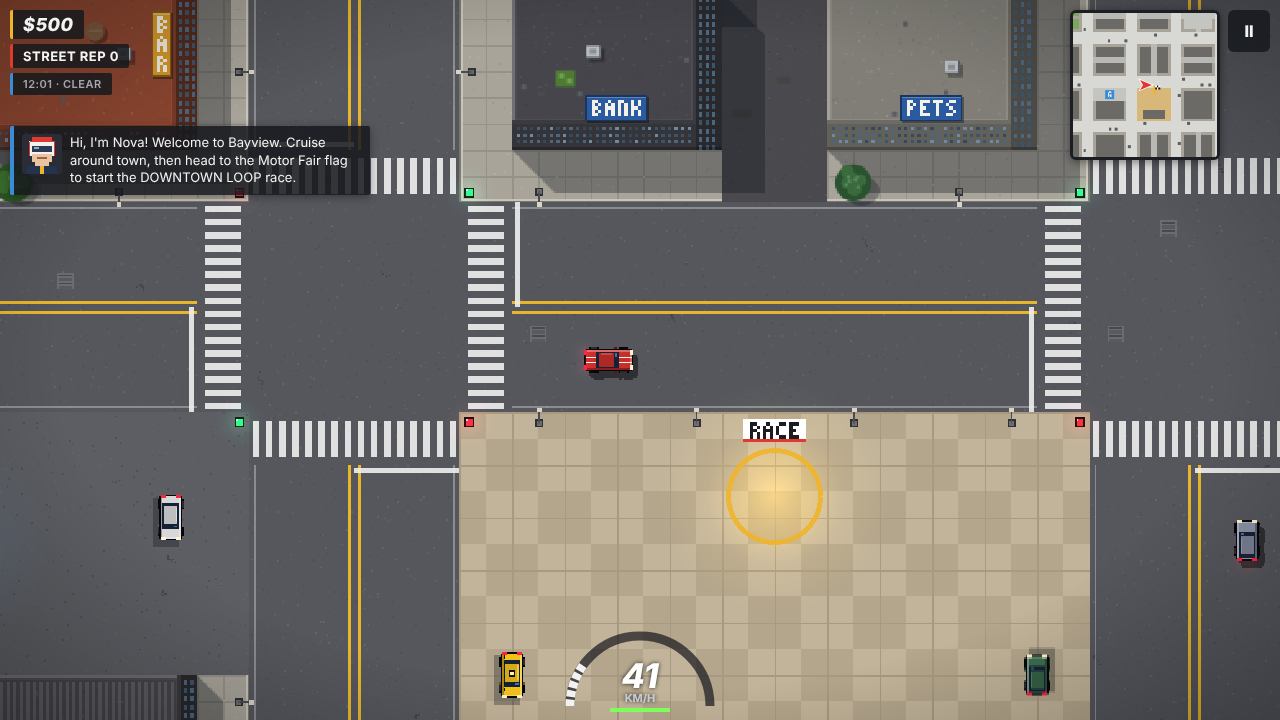
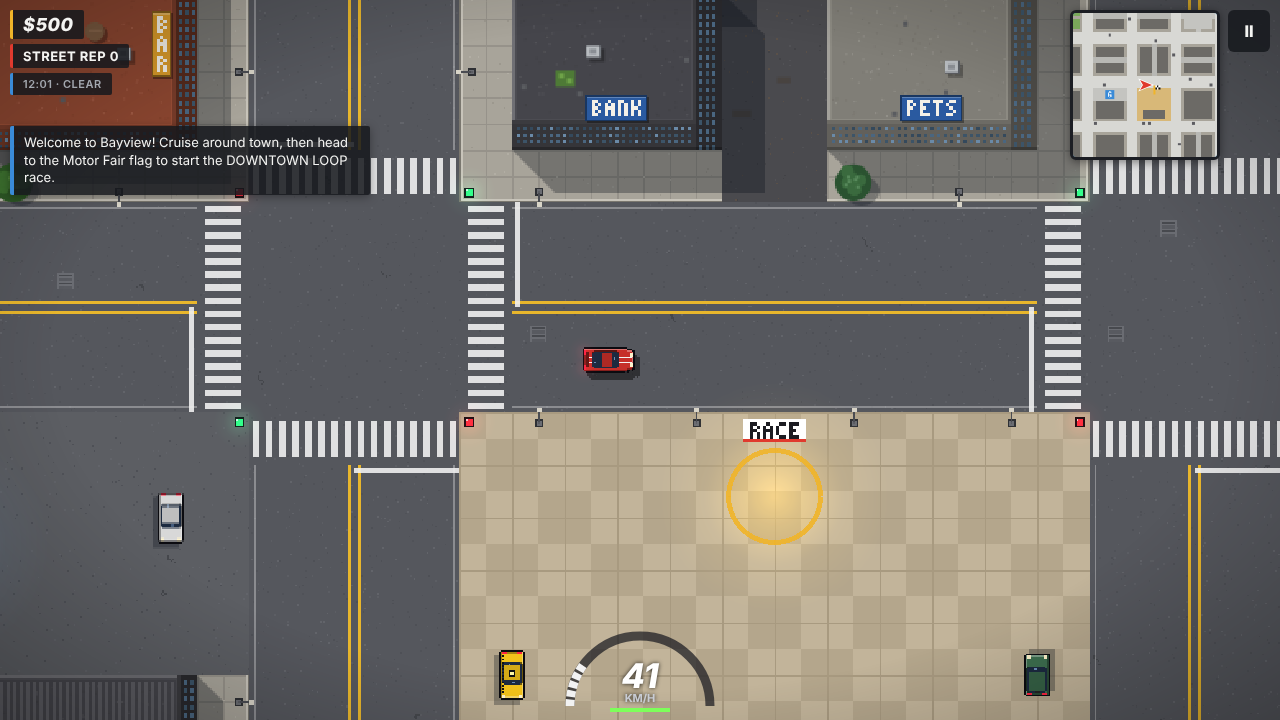
Remove Nova and maths from the game
The educational part is now a separate project. Results screen shows
standings and prize with a single COLLECT button; Nova's dialogue box
becomes a plain hint message; pause menu, saves and README no longer
reference maths. Old saves have their maths progress stripped on load.

src/edu/Nova.ts is no longer imported anywhere and can be deleted.

Claude-Session: https://claude.ai/code/session_01VsGFSgPn9bzHfpGfi3dhhv

diff --git a/src/ui/Menus.ts b/src/ui/Menus.ts
@@ -1,5 +1,3 @@
-import { Question, drawNova } from '../edu/Nova';
-
 const overlay = () => document.getElementById('overlay')!;
 const panel = () => document.getElementById('panel')!;
 
@@ -22,7 +20,6 @@ export interface PauseOptions {
   fps: boolean;
   zoom: number;
   ctlScale: number;
-  mathsLevel: number;
   onResume(): void;
   onTime(hour: number): void;
   onZoom(z: number): void;
@@ -48,8 +45,7 @@ export function showPause(o: PauseOptions) {
     <div class="row"><span>SOUND</span><button data-a="mute">${o.muted ? 'OFF' : 'ON'}</button></div>
     <div class="row"><span>SHOW FPS</span><button data-a="fps">${o.fps ? 'ON' : 'OFF'}</button></div>
     <div class="row"><button data-a="resetcar">RESET CAR</button>${o.racing ? '<button data-a="quit" class="danger">QUIT RACE</button>' : ''}</div>
-    <p class="help">Keyboard: <b>W/↑</b> gas · <b>S/↓</b> brake/reverse · <b>A D/← →</b> steer · <b>SPACE</b> drift · <b>E</b> interact · <b>+/-</b> zoom · <b>ESC</b> pause</p>
-    <p class="help">Nova maths level: ${o.mathsLevel}</p>`);
+    <p class="help">Keyboard: <b>W/↑</b> gas · <b>S/↓</b> brake/reverse · <b>A D/← →</b> steer · <b>SPACE</b> drift · <b>E</b> interact · <b>+/-</b> zoom · <b>ESC</b> pause</p>`);
   p.querySelector('[data-a=resume]')!.addEventListener('click', () => o.onResume());
   p.querySelectorAll<HTMLButtonElement>('[data-h]').forEach((b) => b.addEventListener('click', () => o.onTime(Number(b.dataset.h))));
   (p.querySelector('[data-a=zoom]') as HTMLInputElement).addEventListener('input', (e) => o.onZoom(Number((e.target as HTMLInputElement).value)));
@@ -82,7 +78,7 @@ export interface ResultRow {
   color: string;
 }
 
-export function showResults(rows: ResultRow[], reward: number, rep: number, bestLap: string, question: Question, onDone: (bonusCorrect: boolean | null) => void) {
+export function showResults(rows: ResultRow[], reward: number, rep: number, bestLap: string, onDone: () => void) {
   const table = rows
     .map((r) => `<tr class="${r.you ? 'you' : ''}"><td>${r.place}</td><td><i style="background:${r.color}"></i>${r.name}</td><td>${r.car}</td><td>${r.time}</td></tr>`)
     .join('');
@@ -90,37 +86,6 @@ export function showResults(rows: ResultRow[], reward: number, rep: number, best
     <h2>${rows.find((r) => r.you)!.place === 1 ? 'VICTORY!' : 'RACE COMPLETE'}</h2>
     <table class="results"><tr><th>#</th><th>DRIVER</th><th>CAR</th><th>TIME</th></tr>${table}</table>
     <p class="reward">PRIZE <b>$${reward}</b> · STREET REP <b>+${rep}</b> · BEST LAP <b>${bestLap}</b></p>
-    <div class="novaq">
-      <canvas width="24" height="24" class="face"></canvas>
-      <div>
-        <p><b>NOVA:</b> Bonus round! Solve this for <b>+50%</b> prize money.</p>
-        <p class="q">${question.text}</p>
-        <div class="choices">${question.choices.map((c) => `<button data-c="${c}">${c}</button>`).join('')}</div>
-        <p class="explain hidden"></p>
-      </div>
-    </div>
-    <div class="row"><button data-a="skip">SKIP BONUS</button><button class="big hidden" data-a="done">COLLECT</button></div>`);
-  drawNova(p.querySelector('.face') as HTMLCanvasElement);
-  let answered: boolean | null = null;
-  const done = p.querySelector('[data-a=done]') as HTMLButtonElement;
-  const skip = p.querySelector('[data-a=skip]') as HTMLButtonElement;
-  p.querySelectorAll<HTMLButtonElement>('[data-c]').forEach((b) =>
-    b.addEventListener('click', () => {
-      if (answered !== null) return;
-      const v = Number(b.dataset.c);
-      answered = v === question.answer;
-      p.querySelectorAll<HTMLButtonElement>('[data-c]').forEach((x) => {
-        x.disabled = true;
-        if (Number(x.dataset.c) === question.answer) x.classList.add('right');
-      });
-      if (!answered) b.classList.add('wrong');
-      const ex = p.querySelector('.explain')!;
-      ex.textContent = answered ? `Correct! ${question.explain}. Bonus unlocked!` : `Not quite: ${question.explain}. You still keep your prize.`;
-      ex.classList.remove('hidden');
-      skip.classList.add('hidden');
-      done.classList.remove('hidden');
-    }),
-  );
-  skip.addEventListener('click', () => onDone(null));
-  done.addEventListener('click', () => onDone(answered));
+    <button class="big" data-a="done">COLLECT</button>`);
+  p.querySelector('[data-a=done]')!.addEventListener('click', () => onDone());
 }

diff --git a/src/scenes/GameScene.ts b/src/scenes/GameScene.ts
@@ -2,7 +2,6 @@ import Phaser from 'phaser';
 import { DEPTH, DIRS, GRID, TILE, WORLD_H, WORLD_W, nodePos } from '../config';
 import { clamp, damp } from '../core/math';
 import { TrafficSystem } from '../ai/Traffic';
-import { adapt, makeQuestion } from '../edu/Nova';
 import { registerTextures, SpriteBank, hexStr } from '../gfx/SpriteFactory';
 import { collideBodies, collideKinematic, collideWorld } from '../physics/Collision';
 import { RaceManager } from '../race/RaceManager';
@@ -115,10 +114,10 @@ export class GameScene extends Phaser.Scene {
 
     document.getElementById('loading')!.classList.add('hidden');
     if (!this.save.seenIntro) {
-      this.hud.nova("Hi, I'm Nova! Welcome to Bayview. Cruise around town, then head to the Motor Fair flag to start the DOWNTOWN LOOP race.", 8000);
+      this.hud.hint('Welcome to Bayview! Cruise around town, then head to the Motor Fair flag to start the DOWNTOWN LOOP race.', 8000);
       this.save.seenIntro = true;
       writeSave(this.save);
-    } else this.hud.nova('Welcome back to Bayview! The DOWNTOWN LOOP race is waiting at the Motor Fair.', 4500);
+    } else this.hud.hint('Welcome back to Bayview! The DOWNTOWN LOOP race is waiting at the Motor Fair.', 4500);
   }
 
   private addMarker(x: number, y: number, color: number, label: string) {
@@ -159,7 +158,6 @@ export class GameScene extends Phaser.Scene {
       fps: this.showFps,
       zoom: this.userZoom,
       ctlScale: this.touch.scale,
-      mathsLevel: this.save.maths.level,
       onResume: () => this.togglePause(),
       onTime: (h) => {
         this.dayNight.hour = h;
@@ -325,7 +323,7 @@ export class GameScene extends Phaser.Scene {
     }
     if (ev.lap && !ev.finished) {
       this.hud.toast(`LAP ${ev.lap + 1}/${this.race.def.laps} · ${fmtTime(this.race.lastLapTimes[this.race.lastLapTimes.length - 1])}`);
-      if (ev.lap === this.race.def.laps - 1) this.hud.nova('Final lap! Watch for shortcuts through the parking lots.', 3000);
+      if (ev.lap === this.race.def.laps - 1) this.hud.hint('Final lap! Watch for shortcuts through the parking lots.', 3000);
     }
     if (ev.finished) {
       this.hud.countdown('FINISH');
@@ -351,11 +349,8 @@ export class GameScene extends Phaser.Scene {
       you: e.isPlayer,
       color: hexStr(e.color),
     }));
-    const q = makeQuestion(this.save.maths.level, { reward });
-    showResults(rows, reward, rep, fmtTime(bestLap), q, (bonus) => {
-      if (bonus !== null) adapt(this.save.maths, bonus);
-      const total = Math.round(reward * (bonus ? 1.5 : 1));
-      this.save.money += total;
+    showResults(rows, reward, rep, fmtTime(bestLap), () => {
+      this.save.money += reward;
       this.save.rep.street += rep;
       if (place === 1) this.save.racesWon++;
       const tt = this.race.player!.finishTime;
@@ -365,8 +360,8 @@ export class GameScene extends Phaser.Scene {
       closeOverlay();
       this.race.end();
       this.resultsShown = false;
-      this.hud.toast(`+$${total}${bonus ? ' (NOVA BONUS!)' : ''}`);
-      this.hud.nova(place === 1 ? 'Amazing driving! Race again any time at the Motor Fair flag.' : 'Good run! Try the parking-lot shortcuts next time.', 4500);
+      this.hud.toast(`+$${reward}`);
+      this.hud.hint(place === 1 ? 'Amazing driving! Race again any time at the Motor Fair flag.' : 'Good run! Try the parking-lot shortcuts next time.', 4500);
     });
   }
 
@@ -399,7 +394,7 @@ export class GameScene extends Phaser.Scene {
       this.camX = p.x;
       this.camY = p.y;
       this.lastCountdown = -1;
-      this.hud.nova('Two laps of downtown Bayview. Follow the yellow checkpoints. Beat the rivals!', 3500);
+      this.hud.hint('Two laps of downtown Bayview. Follow the yellow checkpoints. Beat the rivals!', 3500);
     } else if (ctx === 'garage') {
       if (p.damage < 1) this.hud.toast('YOUR CAR IS ALREADY PERFECT');
       else {

diff --git a/src/style.css b/src/style.css
@@ -43,8 +43,7 @@ body { touch-action: none; user-select: none; -webkit-user-select: none; -webkit
 #countdown.pop { animation: pop 0.6s ease-out; }
 @keyframes pop { from { transform: translate(-50%, -50%) scale(1.8); opacity: 0.2; } to { transform: translate(-50%, -50%) scale(1); opacity: 1; } }
 #toast { position: absolute; top: 24%; left: 50%; transform: translateX(-50%); background: var(--panel); border-left: 4px solid var(--amber); padding: 8px 16px; border-radius: 2px; font-weight: 800; letter-spacing: 0.5px; white-space: nowrap; max-width: 92vw; overflow: hidden; text-overflow: ellipsis; }
-#nova { position: absolute; left: calc(10px + var(--safe-l)); top: calc(126px + var(--safe-t)); max-width: min(360px, 60vw); display: flex; gap: 8px; align-items: flex-start; background: var(--panel); border-left: 4px solid var(--blue); border-radius: 2px; padding: 8px; font-size: 13px; line-height: 1.35; box-shadow: 0 2px 10px rgba(0, 0, 0, 0.35); }
-#nova canvas { width: 40px; height: 40px; image-rendering: pixelated; flex: none; background: #2a2d35; border-radius: 3px; }
+#hint { position: absolute; left: calc(10px + var(--safe-l)); top: calc(126px + var(--safe-t)); max-width: min(360px, 60vw); background: var(--panel); border-left: 4px solid var(--blue); border-radius: 2px; padding: 8px 10px; font-size: 13px; line-height: 1.35; box-shadow: 0 2px 10px rgba(0, 0, 0, 0.35); }
 #speedo { position: absolute; bottom: calc(6px + var(--safe-b)); left: 50%; transform: translateX(-50%); width: 170px; height: 100px; }
 body.touch #speedo { bottom: calc(4px + var(--safe-b)); }
 
@@ -84,15 +83,6 @@ body.touch #speedo { bottom: calc(4px + var(--safe-b)); }
 .results i { display: inline-block; width: 8px; height: 8px; margin-right: 6px; border-radius: 2px; }
 .reward { text-align: center; }
 .reward b { color: var(--amber); }
-.novaq { display: flex; gap: 10px; background: rgba(58, 139, 216, 0.1); border-left: 4px solid var(--blue); border-radius: 2px; padding: 10px; }
-.novaq .face { width: 48px; height: 48px; image-rendering: pixelated; flex: none; background: #2a2d35; border-radius: 3px; }
-.novaq p { margin: 0 0 8px; }
-.novaq .q { font-size: 16px; font-weight: 800; }
-.choices { display: flex; gap: 8px; flex-wrap: wrap; }
-.choices button { min-width: 72px; font-size: 18px; }
-.choices button.right { border-color: #50c86e; background: #1e4a2a; }
-.choices button.wrong { border-color: var(--accent); background: #4a1e1a; }
-.explain { color: #8ec4f4; }
 
 #loading { position: fixed; inset: 0; z-index: 50; display: flex; flex-direction: column; align-items: center; justify-content: center; background: #16181d; gap: 10px; }
 #loading .logo { font-size: 44px; font-weight: 900; font-style: italic; letter-spacing: 2px; border-bottom: 5px solid var(--accent); padding-bottom: 4px; }
@@ -104,11 +94,10 @@ body.touch #speedo { bottom: calc(4px + var(--safe-b)); }
   .chip.money { font-size: 14px; }
   #raceInfo { font-size: 15px; gap: 8px; padding: 4px 8px; top: calc(6px + var(--safe-t)); }
   #countdown { font-size: 68px; }
-  #nova { top: calc(100px + var(--safe-t)); font-size: 11px; }
+  #hint { top: calc(100px + var(--safe-t)); font-size: 11px; }
   #speedo { width: 136px; height: 80px; }
 }
 @media (max-height: 500px) {
-  #nova { top: calc(44px + var(--safe-t)); left: 50%; transform: translateX(-50%); max-width: min(44vw, 380px); padding: 5px 7px; font-size: 11px; }
-  #nova canvas { width: 28px; height: 28px; }
+  #hint { top: calc(44px + var(--safe-t)); left: 50%; transform: translateX(-50%); max-width: min(44vw, 380px); padding: 5px 7px; font-size: 11px; }
   #toast { top: auto; bottom: calc(96px + var(--safe-b)); font-size: 12px; }
 }

diff --git a/src/ui/Hud.ts b/src/ui/Hud.ts
@@ -1,5 +1,4 @@
 import { MAP_H, MAP_W, TILE, toKmh } from '../config';
-import { drawNova } from '../edu/Nova';
 import type { CityMap } from '../world/CityMap';
 import { Tile } from '../world/Tiles';
 
@@ -49,7 +48,7 @@ export const fmtTime = (t: number) => {
   return `${m}:${s < 10 ? '0' : ''}${s.toFixed(1)}`;
 };
 
-/** DOM HUD: money/rep chips, mini-map, speedometer, race panel, toasts and Nova messages. */
+/** DOM HUD: money/rep chips, mini-map, speedometer, race panel, toasts and hint messages. */
 export class Hud {
   private mini = $('minimap') as HTMLCanvasElement;
   private mctx: CanvasRenderingContext2D;
@@ -57,7 +56,7 @@ export class Hud {
   private speedo = $('speedo') as HTMLCanvasElement;
   private sctx: CanvasRenderingContext2D;
   private toastTimer = 0;
-  private novaTimer = 0;
+  private hintTimer = 0;
   private last = 0;
 
   constructor(map: CityMap) {
@@ -77,7 +76,6 @@ export class Hud {
         g.fillStyle = MINI_COL[map.get(x, y)] ?? '#000';
         g.fillRect(x, y, 1, 1);
       }
-    drawNova($('novaFace') as HTMLCanvasElement);
   }
 
   toast(text: string, ms = 2200) {
@@ -87,10 +85,10 @@ export class Hud {
     this.toastTimer = ms / 1000;
   }
 
-  nova(text: string, ms = 5000) {
-    $('novaText').textContent = text;
-    $('nova').classList.remove('hidden');
-    this.novaTimer = ms / 1000;
+  hint(text: string, ms = 5000) {
+    $('hint').textContent = text;
+    $('hint').classList.remove('hidden');
+    this.hintTimer = ms / 1000;
   }
 
   countdown(text: string | null) {
@@ -108,7 +106,7 @@ export class Hud {
 
   update(dt: number, f: HudFrame) {
     if (this.toastTimer > 0 && (this.toastTimer -= dt) <= 0) $('toast').classList.add('hidden');
-    if (this.novaTimer > 0 && (this.novaTimer -= dt) <= 0) $('nova').classList.add('hidden');
+    if (this.hintTimer > 0 && (this.hintTimer -= dt) <= 0) $('hint').classList.add('hidden');
     this.last += dt;
     if (this.last < 1 / 20) return; // 20 Hz HUD refresh is plenty
     this.last = 0;

diff --git a/src/systems/Save.ts b/src/systems/Save.ts
@@ -10,7 +10,6 @@ export interface SaveData {
   version: 1;
   money: number;
   rep: Reputation;
-  maths: { level: number; streak: number; correct: number; answered: number };
   racesWon: number;
   bestRace: number | null;
   bestLap: number | null;
@@ -21,7 +20,6 @@ export const defaultSave = (): SaveData => ({
   version: 1,
   money: 500,
   rep: { street: 0, rally: 0, circuit: 0, offroad: 0, drag: 0 },
-  maths: { level: 1, streak: 0, correct: 0, answered: 0 },
   racesWon: 0,
   bestRace: null,
   bestLap: null,
@@ -51,7 +49,9 @@ export async function loadSave(): Promise<SaveData> {
       req.onerror = () => reject(req.error);
     });
     const def = defaultSave();
-    return data ? { ...def, ...data, rep: { ...def.rep, ...data.rep }, maths: { ...def.maths, ...data.maths } } : def;
+    if (!data) return def;
+    const { maths: _dropped, ...rest } = data as SaveData & { maths?: unknown }; // older saves had maths progress
+    return { ...def, ...rest, rep: { ...def.rep, ...rest.rep } };
   } catch {
     return defaultSave();
   }

diff --git a/index.html b/index.html
@@ -33,7 +33,7 @@
       <div id="cpArrow" class="hidden"></div>
       <div id="countdown" class="hidden"></div>
       <div id="toast" class="hidden"></div>
-      <div id="nova" class="hidden"><canvas id="novaFace" width="24" height="24"></canvas><div id="novaText"></div></div>
+      <div id="hint" class="hidden"></div>
       <canvas id="speedo"></canvas>
     </div>
 

diff --git a/README.md b/README.md
@@ -1,11 +1,12 @@
-# NIGHT RACERS — Bayview Maths Missions
+# NIGHT RACERS — Bayview
 
-Open-world, top-down arcade racing with an educational twist, built for the browser (mobile-first).
+Open-world, top-down arcade racing, built for the browser (mobile-first).
 This is **Milestone 1: the playable Bayview downtown prototype** from the [design spec](docs/SPEC.md).
 
-> **Style change:** the original spec used a neon theme (Neon Bay / Neon City). The game now uses a natural look with a
-> full **day/night cycle**. Place names changed to match: Neon Bay → **Bayview**, Neon City → **Downtown**,
-> NEON LOOP → **DOWNTOWN LOOP**, Neon Bay Festival → **Bayview Motor Fair**. `docs/SPEC.md` is kept as originally written.
+> **Changes from the spec** (`docs/SPEC.md` is kept as originally written):
+> - **No neon theme.** The game uses a natural look with a full **day/night cycle**. Place names changed to match:
+>   Neon Bay → **Bayview**, Neon City → **Downtown**, NEON LOOP → **DOWNTOWN LOOP**, Neon Bay Festival → **Bayview Motor Fair**.
+> - **No Nova or maths.** The educational part (spec section 9) is now a separate project, and this game is racing only.
 
 ## Run it
 
@@ -66,15 +67,13 @@ positions (MOVE CONTROLS), or reset the layout. The layout is remembered per dev
     a chequered start/finish line, lap counting, live positions and a HUD arrow. At the end a results screen shows money
     and street-reputation rewards. Rivals have different personalities (skill, aggression, racing line), corner braking,
     stuck recovery, an off-screen rescue if they get stuck, and mild rubber-banding.
-11. **Nova and maths.** Nova greets you and gives tips without blocking play. After each race she offers an optional
-    bonus question (+50% prize). Its difficulty adapts across 8 levels, from addition up to speed × time, and the
-    questions use racing themes. Free roaming is never interrupted.
+11. **Hints.** Short tips (where the race starts, final lap, shortcuts) appear in a corner without blocking play.
 12. **Garage.** Drive to the GARAGE ring to repair damage (costs money).
 13. **Dynamic weather.** The weather moves between clear, drizzle, rain and storm, with rain streaks and thunder flashes.
     Rain dims the daylight, and roads get wet (darker, with puddles) and dry gradually.
 14. **Audio.** All sound is procedural Web Audio: an engine with gear changes, tyre squeal, crashes, rain, thunder and
     countdown beeps.
-15. **Saves.** Money, reputation (street, rally, circuit, off-road and drag), maths level and best times are
+15. **Saves.** Money, reputation (street, rally, circuit, off-road and drag) and best times are
     saved in IndexedDB.
 
 ### How the lighting works
@@ -110,7 +109,6 @@ src/
   systems/DayNight.ts       time of day: world tint + night factor for lights
   systems/{Weather,Audio,Input,Save}.ts
   ui/{Hud,TouchControls,Menus}.ts
-  edu/Nova.ts               adaptive maths questions + Nova portrait
 ```
 
 Performance notes: the world is baked into chunk textures, so each chunk is 3 sprites (base, wet and night layers).
@@ -136,4 +134,4 @@ Each class has its own silhouette (body outline, cabin position, wheel stance an
 ![All vehicles](docs/screenshots/cars.png)
 
 ![Mobile landscape with touch controls](docs/screenshots/mobile.png)
-![Race results with Nova's bonus question](docs/screenshots/results.png)
+![Race results](docs/screenshots/results.png)
